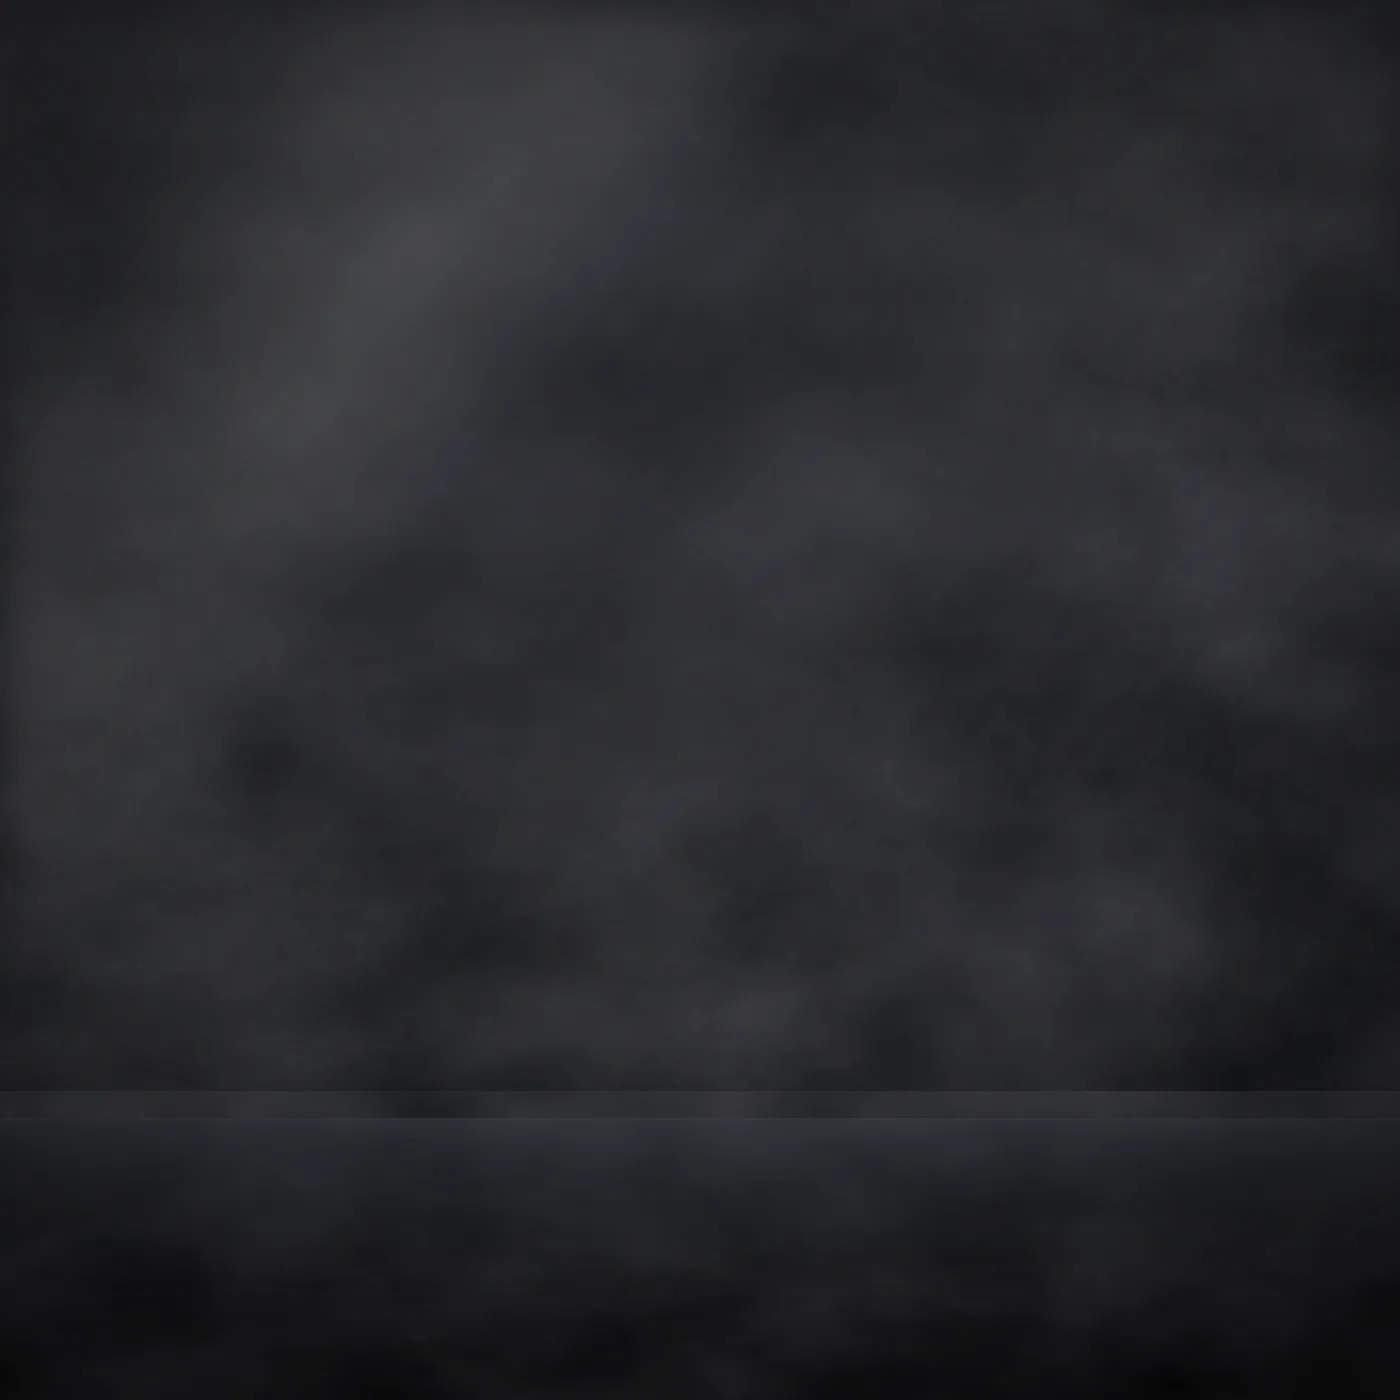
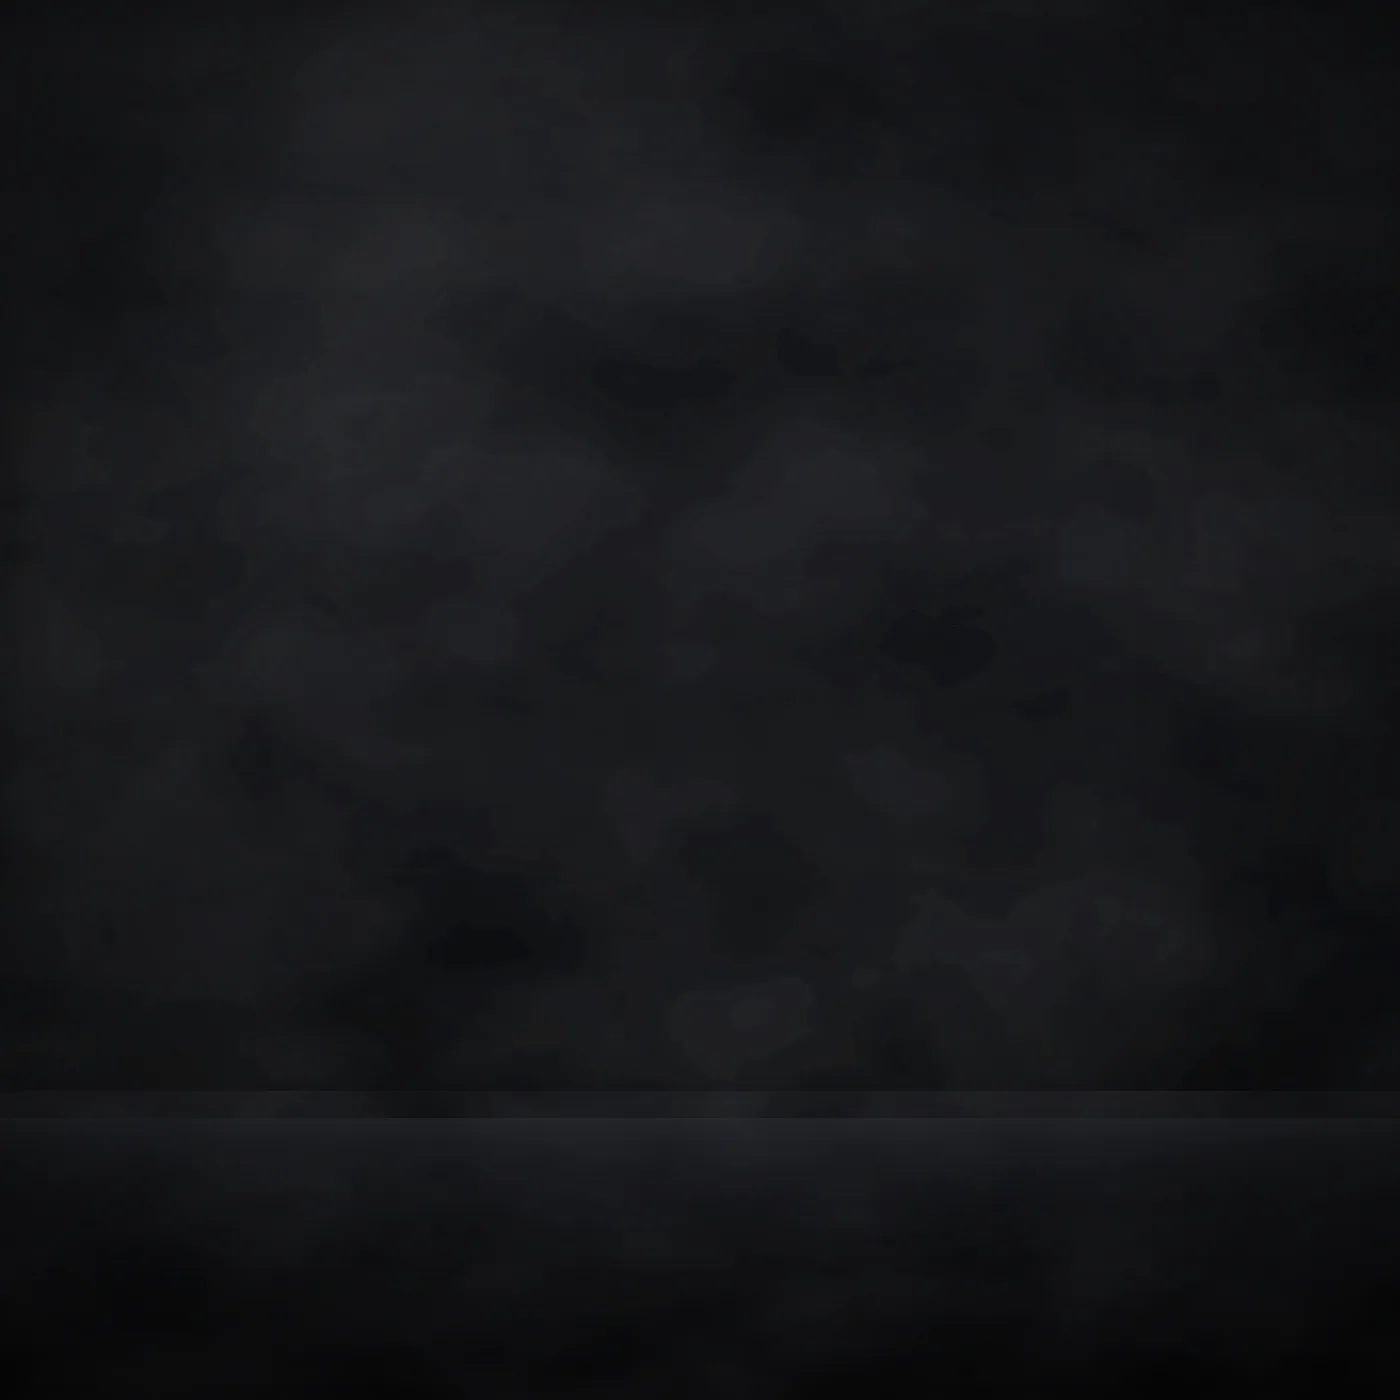
Catalog vials: remove leftover glow, darken the marble scene (#16)
The per-card black-marble scene had a bright key-light behind each vial that read
as a leftover spotlight; darken the tile (drop the key glow, fade the beams) so the
vials sit on clean, moody dark stone with just their reflection. Also hard-disable
the old warm/blue glow ::before layer for the Undisclosed catalog so it can never
peek on any viewport.

Claude-Session: https://claude.ai/code/session_01M8Qtf7wum7sU3ieHpRfW3u

diff --git a/src/index.css b/src/index.css
@@ -3647,6 +3647,15 @@ body:has(.app-shell--undisclosed)::before {
   overflow: hidden;
 }
 
+/* Old glow halos removed — the catalog vials now carry their own baked black-marble
+   scene + reflection, so the leftover warm/blue light behind them is gone for good. */
+.app-shell--undisclosed .vial-approved-photo::before,
+.app-shell--undisclosed .vial-glow--sun::before,
+.app-shell--undisclosed .vial-glow--blue::before,
+.app-shell--undisclosed .product-card:hover .vial-approved-photo::before {
+  display: none !important;
+}
+
 .app-shell--undisclosed .vial-approved-photo,
 .app-shell--undisclosed .skin-bottle-preview--photo {
   background: transparent;
